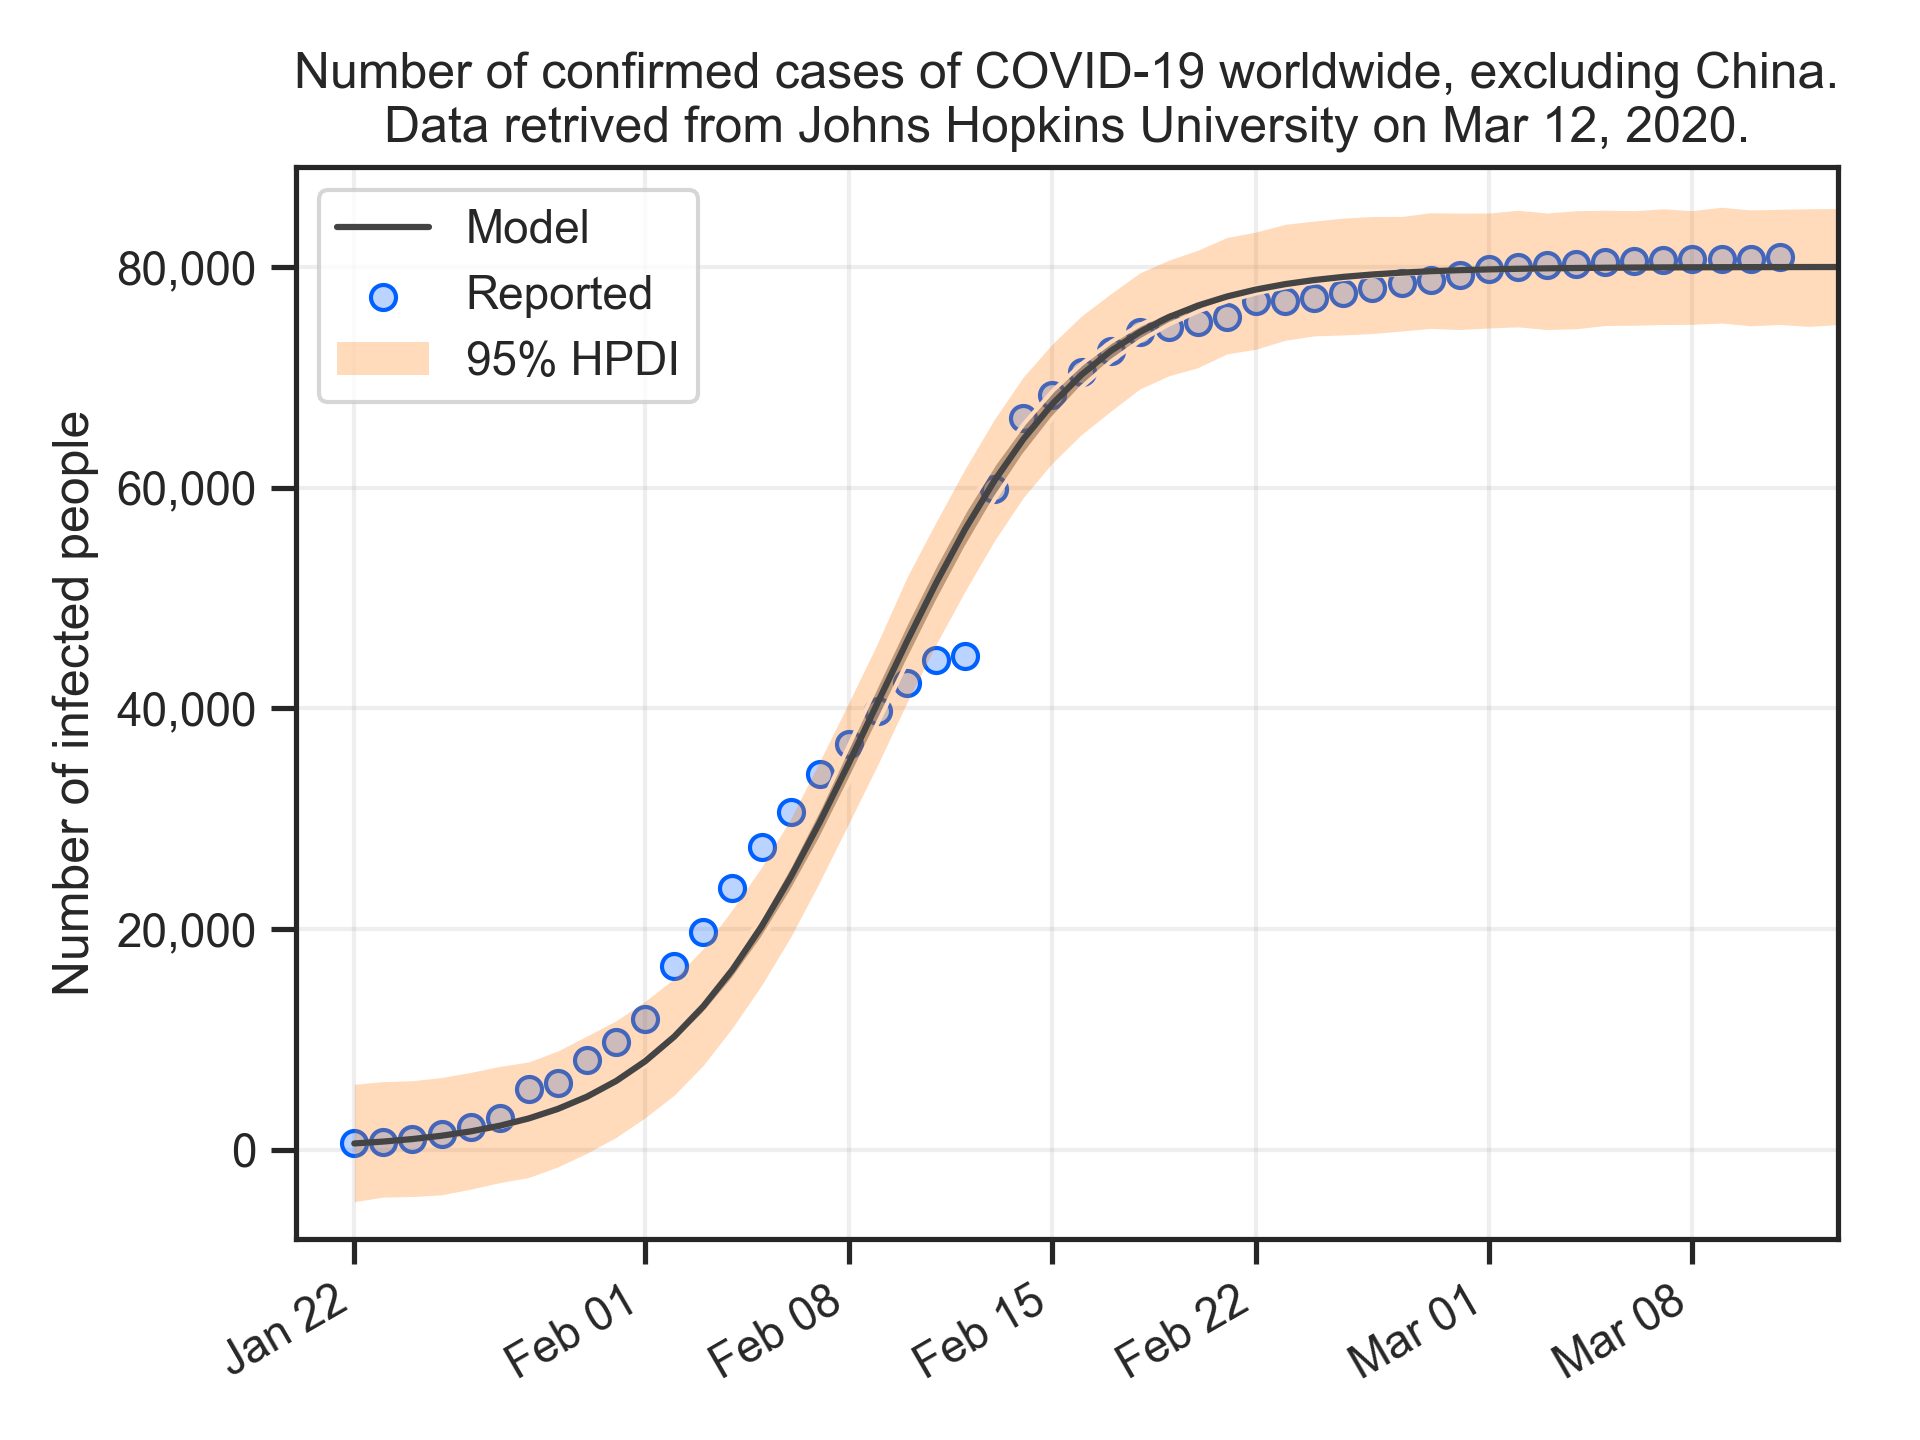
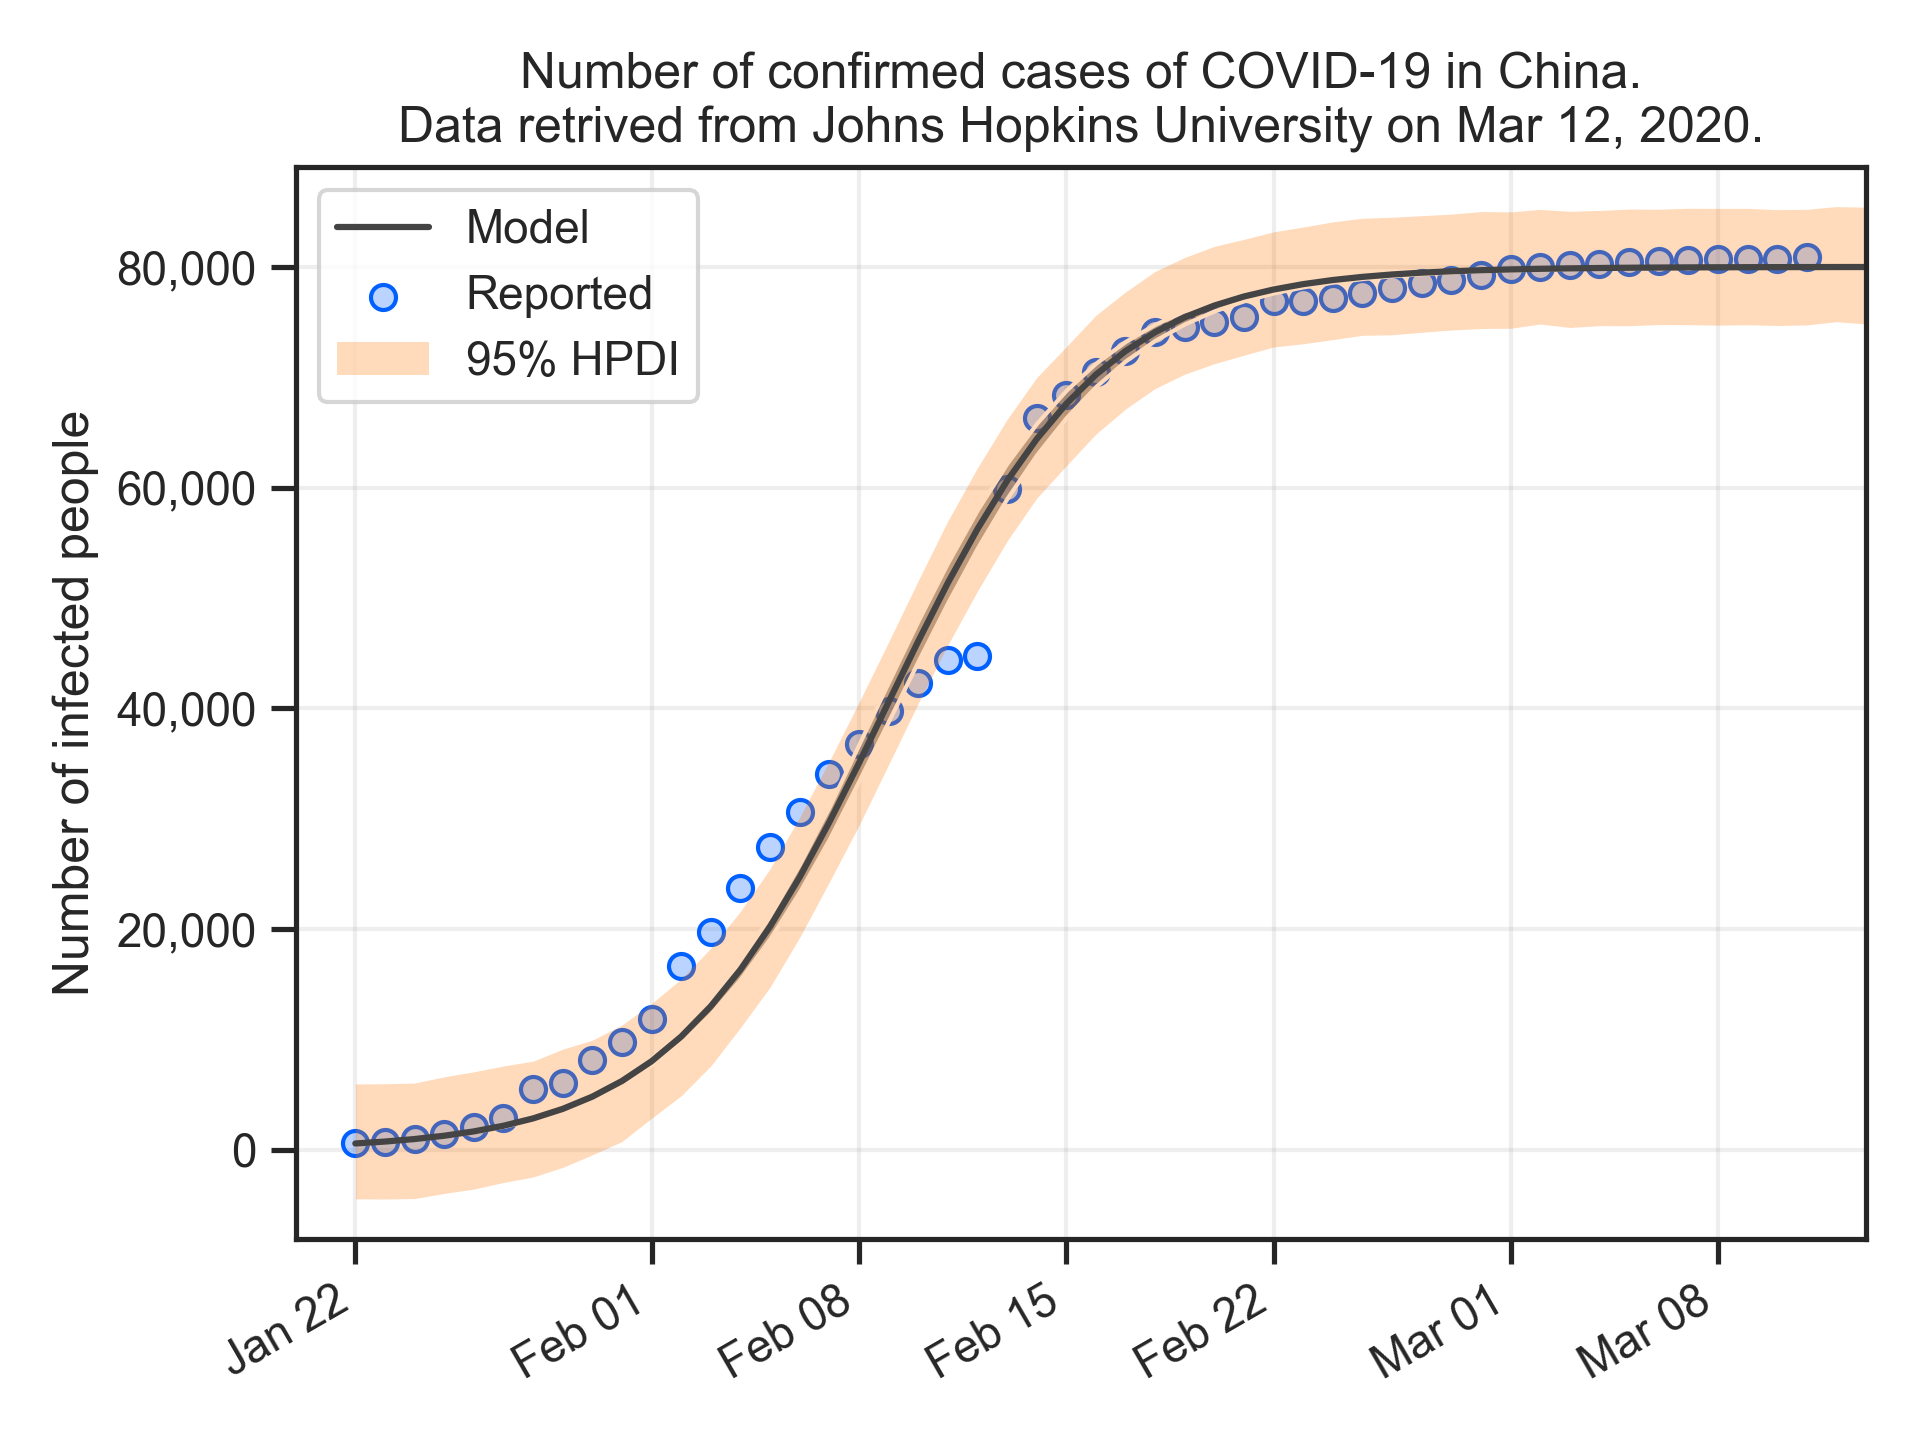
Work

diff --git a/README.md b/README.md
@@ -1,4 +1,4 @@
-# Analysing time series of world wide confirmed cases of Coronavirus (COVID-19) with Stan and Python
+# Using logistic function to model number of COVID-19 confirmed cases in Stan and Python
 
 This is a Stan model for analysing time series of confirmed cases of Coronavirus (COVID-19). The program does the following:
 
@@ -17,7 +17,11 @@ As the new data becomes available daily, I will be running this script and addin
 
 ## Exclusion of China
 
-The model does not include the data for China.
+The model does not include the data for China because the the number of confirmed cases have levelled off, as shown below. This could indicate that the virus has invected most people. Alternatively, it could be the case that the data are not accurate, or health care system is overwhelmed and is not able to test people.
+
+![Modelling COVID-19 confirmed cases in China with logistic function, observed cases](https://github.com/evgenyneu/covid19/raw/master/plots/2020_03_12_observed_china.png)
+
+![Modelling COVID-19 confirmed cases in China with logistic function, extrapolated](https://github.com/evgenyneu/covid19/raw/master/plots/2020_03_12_extrapolated_china.png)
 
 ## Setup
 
